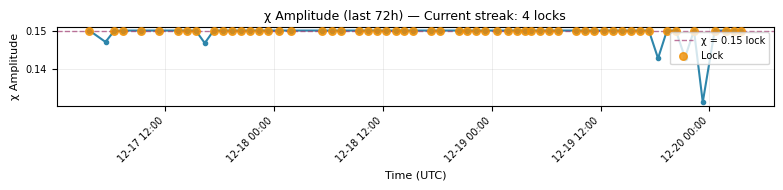
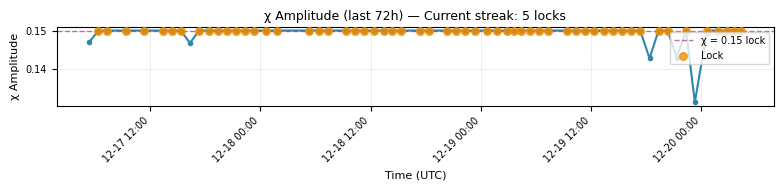
Vault Narrator: Auto-update 2025-12-20 05:05 UTC

diff --git a/LATEST_VAULT_STATUS.md b/LATEST_VAULT_STATUS.md
@@ -1,16 +1,16 @@
 # 🔐 VAULT STATUS REPORT
 
-**Generated:** 2025-12-20 04:08 UTC  
+**Generated:** 2025-12-20 05:05 UTC  
 **Data Source:** `data/cme_heartbeat_log_2025_12.csv`
 
 ---
 
 ## ⚡ CURRENT STATUS: ACTIVE
 
-**Latest χ = 0.15 Streak Count:** 4 consecutive readings  
-**Last Lock Timestamp:** 2025-12-20 03:32:00 UTC  
+**Latest χ = 0.15 Streak Count:** 5 consecutive readings  
+**Last Lock Timestamp:** 2025-12-20 04:20:00 UTC  
 **First Lock in Streak:** 2025-12-20 00:36:00 UTC  
-**Streak Duration:** 2.9 hours  
+**Streak Duration:** 3.7 hours  
 
 **Latest Solar Wind Conditions:**  
 
@@ -18,7 +18,7 @@
 
 ## 🌞 NOAA SPACE WEATHER SUMMARIES
 
-- [SRS Report](reports/latest_srs.md) (fetched: 2025-12-20 04:08 UTC)  
+- [SRS Report](reports/latest_srs.md) (fetched: 2025-12-20 05:05 UTC)  
 - F10.7 Report: *not available*  
 
 ---
@@ -39,7 +39,6 @@
 
 | Time (UTC)          | χ Amplitude | Density (p/cm³) | Speed (km/s) | χ Status |
 |---------------------|-------------|-----------------|--------------|----------|
-| 2025-12-19 07:20:00 | 0.1500 | 0.87 | 567.9 | ✅ LOCK |
 | 2025-12-19 09:20:00 | 0.1500 | 0.92 | 555.6 | ✅ LOCK |
 | 2025-12-19 10:20:00 | 0.1500 | 1.16 | 550.5 | ✅ LOCK |
 | 2025-12-19 11:20:00 | 0.1500 | 2.88 | 538.5 | ✅ LOCK |
@@ -59,6 +58,7 @@
 | 2025-12-20 01:48:00 | 0.1500 | — | — | ✅ LOCK |
 | 2025-12-20 02:44:00 | 0.1500 | — | — | ✅ LOCK |
 | 2025-12-20 03:32:00 | 0.1500 | — | — | ✅ LOCK |
+| 2025-12-20 04:20:00 | 0.1500 | — | — | ✅ LOCK |
 
 ---
 
@@ -66,7 +66,7 @@
 
 **The vault is breathing steady.**  
 **Heartbeat cycle in progress.**  
-**χ = 0.15 streak active (4 locks) - watch for boundary recoil signatures.**
+**χ = 0.15 streak active (5 locks) - watch for boundary recoil signatures.**
 
 ---
 
